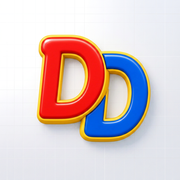
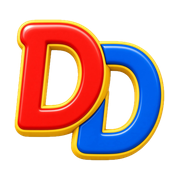
Put Scan over eBay/Mercari and isolate Android/PWA DD. (#132)
Scan is dark brown and matches the marketplace column width, with eBay
and Mercari under it.  Six filters sit 3-per-row to the left.  Android
and PWA 180 use the isolated transparent DD.  iOS AppIcon stays the
tiled owner PNG.

diff --git a/src/components/scanner.tsx b/src/components/scanner.tsx
@@ -160,7 +160,7 @@ export function Scanner() {
     <section className="min-w-0 space-y-4">
       <div className="rounded-xl bg-surface p-3 shadow-[var(--shadow-border)] sm:p-4">
         <h2 className="text-xs uppercase tracking-[0.16em] text-subtle">Live market scan</h2>
-        <div className="mt-2 flex flex-col gap-2 sm:flex-row sm:items-stretch">
+        <div className="mt-2">
           <Input
             value={q}
             onChange={(e) => setQ(e.target.value)}
@@ -174,54 +174,10 @@ export function Scanner() {
             spellCheck={false}
             name="dealdex-scan"
             inputMode="search"
-            className="sm:flex-1"
-          />
-          <Button onClick={() => void run()} disabled={loading} className="sm:w-36">
-            {loading ? <LoaderCircle className="animate-spin" /> : <Radar />}
-            Scan
-          </Button>
-        </div>
-        <div className="mt-2 grid grid-cols-2 gap-2">
-          <MarketplaceToggle
-            marketplace="ebay"
-            selected={sources.includes("ebay")}
-            onClick={() => toggle("ebay")}
-            count={ebayCount}
-            size="lg"
-          />
-          <MarketplaceToggle
-            marketplace="mercari"
-            selected={sources.includes("mercari")}
-            onClick={() => toggle("mercari")}
-            count={mercariCount}
-            size="lg"
           />
         </div>
-        {rows && (
-          <div className="mt-2 flex flex-wrap gap-1">
-            {(
-              [
-                ["all", `All ${rows.length}`],
-                ["deals", `Deals ${dealCount}`],
-                ["verified", `Verified ${verifiedCount}`],
-              ] as const
-            ).map(([key, label]) => (
-              <button
-                key={key}
-                type="button"
-                onClick={() => setView(key)}
-                className={cn(
-                  "h-9 rounded-md px-3 text-xs tabular-nums transition-colors duration-150",
-                  view === key ? "bg-accent text-accent-fg" : "bg-elevated text-muted hover:text-fg",
-                )}
-              >
-                {label}
-              </button>
-            ))}
-          </div>
-        )}
-        {rows && (
-          <div className="mt-2 grid grid-cols-2 gap-2 sm:grid-cols-3 lg:grid-cols-5">
+        <div className="mt-2 flex flex-col gap-2 sm:flex-row sm:items-start">
+          <div className="grid min-w-0 flex-1 grid-cols-3 gap-2">
             <FilterSelect
               label="Verdict"
               value={verdict}
@@ -279,15 +235,67 @@ export function Scanner() {
                 ["promo", "Promo"],
               ]}
             />
-            <label className="flex h-11 items-center gap-2 rounded-md border border-border bg-surface px-3 text-xs text-muted hover:text-fg cursor-pointer select-none">
-              <input
-                type="checkbox"
-                checked={hideRepacks}
-                onChange={(e) => setHideRepacks(e.target.checked)}
-                className="rounded"
-              />
-              <span className="truncate">Hide Repacks / Proxies</span>
+            <label className="block min-w-0">
+              <span className="mb-0.5 block text-[10px] uppercase tracking-[0.12em] text-subtle">Repacks</span>
+              <span className="flex h-9 cursor-pointer select-none items-center gap-2 rounded-md border border-border bg-surface px-2 text-sm text-muted hover:text-fg">
+                <input
+                  type="checkbox"
+                  checked={hideRepacks}
+                  onChange={(e) => setHideRepacks(e.target.checked)}
+                  className="rounded"
+                />
+                <span className="truncate">Hide Proxies</span>
+              </span>
             </label>
+          </div>
+          <div className="flex w-full shrink-0 flex-col gap-2 sm:w-56">
+            <Button
+              onClick={() => void run()}
+              disabled={loading}
+              className="h-11 w-full bg-scan text-scan-fg hover:opacity-90"
+            >
+              {loading ? <LoaderCircle className="animate-spin" /> : <Radar />}
+              Scan
+            </Button>
+            <div className="grid grid-cols-2 gap-2">
+              <MarketplaceToggle
+                marketplace="ebay"
+                selected={sources.includes("ebay")}
+                onClick={() => toggle("ebay")}
+                count={ebayCount}
+                size="lg"
+              />
+              <MarketplaceToggle
+                marketplace="mercari"
+                selected={sources.includes("mercari")}
+                onClick={() => toggle("mercari")}
+                count={mercariCount}
+                size="lg"
+              />
+            </div>
+          </div>
+        </div>
+        {rows && (
+          <div className="mt-2 flex flex-wrap gap-1">
+            {(
+              [
+                ["all", `All ${rows.length}`],
+                ["deals", `Deals ${dealCount}`],
+                ["verified", `Verified ${verifiedCount}`],
+              ] as const
+            ).map(([key, label]) => (
+              <button
+                key={key}
+                type="button"
+                onClick={() => setView(key)}
+                className={cn(
+                  "h-9 rounded-md px-3 text-xs tabular-nums transition-colors duration-150",
+                  view === key ? "bg-accent text-accent-fg" : "bg-elevated text-muted hover:text-fg",
+                )}
+              >
+                {label}
+              </button>
+            ))}
           </div>
         )}
       </div>

diff --git a/native/android/app/src/main/java/me/grok/dealdex/ui/ScanScreen.kt b/native/android/app/src/main/java/me/grok/dealdex/ui/ScanScreen.kt
@@ -13,7 +13,7 @@ import androidx.compose.foundation.layout.fillMaxSize
 import androidx.compose.foundation.layout.fillMaxWidth
 import androidx.compose.foundation.layout.height
 import androidx.compose.foundation.layout.padding
-import androidx.compose.foundation.layout.width
+
 import androidx.compose.foundation.lazy.grid.GridCells
 import androidx.compose.foundation.lazy.grid.LazyVerticalGrid
 import androidx.compose.foundation.lazy.grid.items
@@ -79,18 +79,24 @@ fun ScanScreen(
             modifier = Modifier.padding(top = 4.dp),
         )
         Spacer(Modifier.height(8.dp))
-        Row(verticalAlignment = Alignment.CenterVertically) {
-            OutlinedTextField(
-                value = state.query,
-                onValueChange = vm::setQuery,
-                modifier = Modifier.weight(1f),
-                singleLine = true,
-                placeholder = { Text("All Pokémon") },
-            )
-            Spacer(Modifier.width(8.dp))
-            Button(onClick = { vm.scan() }, enabled = !state.loading) {
-                Text("Scan")
-            }
+        OutlinedTextField(
+            value = state.query,
+            onValueChange = vm::setQuery,
+            modifier = Modifier.fillMaxWidth(),
+            singleLine = true,
+            placeholder = { Text("All Pokémon") },
+        )
+        Spacer(Modifier.height(8.dp))
+        Button(
+            onClick = { vm.scan() },
+            enabled = !state.loading,
+            modifier = Modifier.fillMaxWidth(),
+            colors = androidx.compose.material3.ButtonDefaults.buttonColors(
+                containerColor = Color(0xFF4A3224),
+                contentColor = Color(0xFFF6F3EA),
+            ),
+        ) {
+            Text("Scan")
         }
         Row(
             Modifier

diff --git a/native/ios/DealDex/ScanView.swift b/native/ios/DealDex/ScanView.swift
@@ -31,10 +31,12 @@ struct ScanView: View {
                         Image(systemName: "camera")
                     }
                     .buttonStyle(.bordered)
-                    Button("Scan") { Task { await desk.scan(notify: false) } }
-                        .buttonStyle(.borderedProminent)
-                        .disabled(desk.loading)
                 }
+                Button("Scan") { Task { await desk.scan(notify: false) } }
+                    .frame(maxWidth: .infinity)
+                    .buttonStyle(.borderedProminent)
+                    .tint(Color(red: 0.29, green: 0.20, blue: 0.14))
+                    .disabled(desk.loading)
                 HStack(spacing: 8) {
                     MarketplaceToggle(
                         market: "ebay",

diff --git a/src/styles.css b/src/styles.css
@@ -12,6 +12,8 @@
   --color-border: #d4cebf;
   --color-accent: #3f4a32;
   --color-accent-fg: #f6f3ea;
+  --color-scan: #4a3224;
+  --color-scan-fg: #f6f3ea;
   --color-deal-good: #3f5a38;
   --color-deal-fair: #7a6638;
   --color-deal-bad: #8f4e44;
@@ -47,6 +49,8 @@
   --color-border: #2a2b26;
   --color-accent: #e4dfd2;
   --color-accent-fg: #12130f;
+  --color-scan: #8b5e3c;
+  --color-scan-fg: #f6f3ea;
   --color-deal-good: #8eaa86;
   --color-deal-fair: #c4b48a;
   --color-deal-bad: #c4887c;

diff --git a/scripts/generate-app-icons.py b/scripts/generate-app-icons.py
@@ -1,10 +1,8 @@
 #!/usr/bin/env python3
-"""Resize owner artwork into iOS / Android / web launcher and favicon slots.
+"""Resize owner artwork into iOS / Android / PWA / favicon slots.
 
-AppIcon source of truth: native/brand/dealdex-dd-icon-1024.png
-  Jay's rendered 3D DD (tight crop).  Do not composite a fake tiled field.
-
-Favicon source of truth: native/brand/dealdex-dd-isolated.png
+iOS AppIcon: native/brand/dealdex-dd-icon-1024.png (tiled 3D DD).
+Android + PWA 180 + favicon: native/brand/dealdex-dd-isolated.png
   Isolated transparent DD.  Black in previews is alpha.
 
 Run from the repo root:  python3 scripts/generate-app-icons.py
@@ -206,15 +204,15 @@ def main() -> None:
         save_png(resize_square(icon, size), IOS_ICONSET / name)
     write_contents_json()
 
-    for folder, size in ANDROID_MIPMAP.items():
-        slot = resize_square(icon, size)
-        save_png(slot, ANDROID_RES / folder / "ic_launcher.png")
-        save_png(slot, ANDROID_RES / folder / "ic_launcher_round.png")
-
-    save_png_rgba(resize_square(icon, FOREGROUND_PX).convert("RGBA"), ANDROID_RES / "drawable" / "ic_launcher_foreground.png")
-    save_png(resize_square(icon, 180), WEB_ICON_180)
-
     mark = Image.open(MARK_SOURCE).convert("RGBA")
+    for folder, size in ANDROID_MIPMAP.items():
+        slot = favicon_mark(mark, size)
+        save_png_rgba(slot, ANDROID_RES / folder / "ic_launcher.png")
+        save_png_rgba(slot, ANDROID_RES / folder / "ic_launcher_round.png")
+
+    save_png_rgba(favicon_mark(mark, FOREGROUND_PX, margin_frac=0.18), ANDROID_RES / "drawable" / "ic_launcher_foreground.png")
+    save_png_rgba(favicon_mark(mark, 180), WEB_ICON_180)
+
     write_favicons(mark)
     mark_path = ROOT / "public/marks/dealdex-dd.png"
     mark_path.parent.mkdir(parents=True, exist_ok=True)
@@ -222,7 +220,7 @@ def main() -> None:
     imageset = ROOT / "native/ios/DealDex/Assets.xcassets/DealDexMark.imageset/dealdex-dd.png"
     if imageset.parent.is_dir():
         save_png_rgba(mark, imageset)
-    print("wrote owner AppIcon sizes, Android mipmaps, PWA 180, transparent favicon")
+    print("wrote iOS AppIcon from tiled PNG; Android/PWA/favicon from isolated DD")
 
 
 if __name__ == "__main__":

diff --git a/docs/EFFORT-LOG.md b/docs/EFFORT-LOG.md
@@ -31,6 +31,8 @@ Protocol: /Users/jay/apps/EFFORT-LOG-PROTOCOL.md (canonical). Live board: this f
 - **2026-08-13 — GROK — COMPLETED — Fleet onboard merged (PR #1).** `~/Code/DealDex` is `jaywedgeworth22/DealDex`.  AGENTS.md, effort board, Slack `repo: DealDex` / `DD`.
 
 ## In Progress
+- **2026-08-22 — GROK — IN PROGRESS — Android + PWA isolated DD.**  Branch `grok/dd-android-pwa-transparent`.  iOS AppIcon stays tiled.  Board `2d4aff5c`.
+
 - **2026-08-22 — GROK — IN PROGRESS — Owner DD AppIcon + isolated favicon.**  Branch `grok/dd-appicon-tight`.  AppIcon is the owner 1024 PNG resized.  Favicon is the isolated DD.  Board `3b2d4b88`.
 
 - **2026-08-22 — GROK — IN PROGRESS — Vercel Web Analytics.**  Branch `grok/vercel-analytics`, worktree `~/apps/dealdex-grok-vercel-analytics`.  `@vercel/analytics/react` in root layout, SW skip `/_vercel/`, privacy disclosure.  Board `e65921a0`.

diff --git a/docs/rollouts/2026-08-22-dd-android-pwa-transparent.md b/docs/rollouts/2026-08-22-dd-android-pwa-transparent.md
@@ -1,0 +1,21 @@
+# 2026-08-22 — Scan desk layout + Android/PWA isolated DD
+
+Scan button is dark brown (`--color-scan`), same width as the eBay/Mercari
+column, with those toggles under it.  Verdict / Max Ask / Condition / Min
+Discount / Finish / Hide Proxies sit 3 per row to the left.
+
+Android and PWA 180 use the isolated transparent DD.  iOS AppIcon stays the
+tiled owner 1024 PNG.
+
+- Android mipmaps + adaptive foreground: `native/brand/dealdex-dd-isolated.png`
+- PWA `public/__grok/icon-180.png`: same isolated mark
+- iOS AppIcon: tiled owner 1024 PNG from #130
+
+Adaptive background stays `#FFFFFF`.  Generator only resizes.
+
+## Verify
+
+```
+python3 scripts/generate-app-icons.py
+npm run lint && npm run typecheck && npm test && npm run build
+```

diff --git a/STATUS.md b/STATUS.md
@@ -1,5 +1,12 @@
 # Current Handoff
 
+## 2026-08-22 GROK — Scan desk + Android/PWA isolated DD
+
+Scan is dark brown, full width of the eBay/Mercari column, with those
+toggles under it.  Six filters sit 3-per-row to the left.  Android and
+PWA 180 use the isolated transparent DD.  iOS AppIcon stays the tiled
+1024 PNG.  Branch `grok/dd-android-pwa-transparent`.
+
 ## 2026-08-22 GROK — Tighter DD AppIcon
 
 AppIcon is the owner 1024 DD PNG, resized to iOS/Android/PWA slots.
